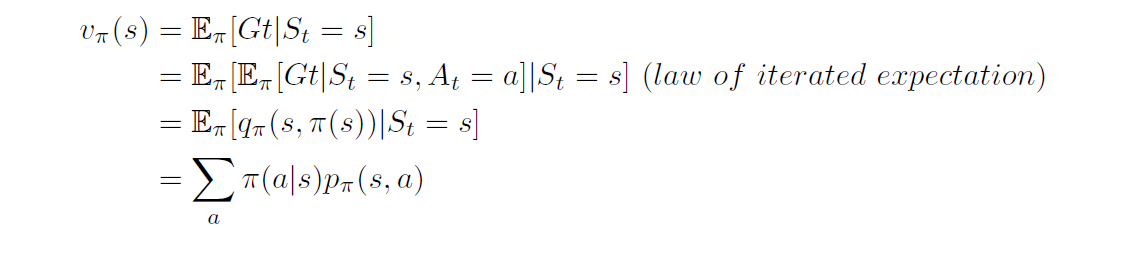
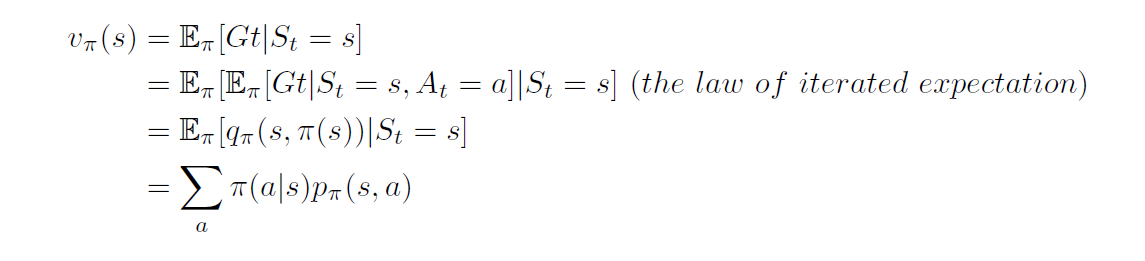
start chapter4 exercise

Changed region(s): [[0.1223, 0.2452, 0.9476, 0.3985], [0.1223, 0.3985, 0.4279, 0.8889], [0.0611, 0.0613, 0.3362, 0.2146]]

diff --git a/solutions/formulas/formulas-chapter4.tex b/solutions/formulas/formulas-chapter4.tex
@@ -1,0 +1,208 @@
+% Formulas for your convinence
+
+\documentclass{article}
+\usepackage{latexsym,bm,amsmath,amssymb}
+\begin{document}
+
+%%%%%%%%%%%%%%%%%%%%%%%%%%%%%%%%%%%%%%%%%%%%%%%%%%%
+% Chapter 2
+%%%%%%%%%%%%%%%%%%%%%%%%%%%%%%%%%%%%%%%%%%%%%%%%%%%
+% Exercise 2.1
+\[
+  \begin{aligned}
+    p_{Greedy} = (1 - \varepsilon) + \varepsilon * 1/2 = 0.75
+  \end{aligned}
+\]
+
+% Exercise 2.3
+\[
+  \begin{aligned}
+    \lim\limits_{step\to+\infty} (p_{\varepsilon=0.1}^{best \ action}) &= 1 - \varepsilon + 1/10 * \varepsilon = 0.91 \\
+    \lim\limits_{step\to+\infty} (p_{\varepsilon=0.01}^{best \ action}) &= 1 - \varepsilon + 1/10 * \varepsilon = 0.991
+  \end{aligned}
+\]
+
+% Exercise 2.5
+\[
+  \begin{aligned}
+    Q_{n+1} &= Q_{n} + \alpha_n (R_n - Q_n) = (1 - \alpha_n(a))Q_n + \alpha_n(a)R_n \\
+            &= (1 - \alpha_n(a))((1 - \alpha_{n-1}(a))Q_{n-1} + \alpha_{n-1}(a)R_{n-1}) + \alpha_n(a)R_n\\
+            & \quad \vdots\\
+            &= (1 - \alpha_n(a))\cdots(1-\alpha_1(a))Q_1 + \\
+            & \qquad \qquad (1 - \alpha_n(a))\cdots(1-\alpha_2(a))\alpha_1(a)R_1 + \\
+            & \qquad \qquad \ddots\\
+            & \qquad \qquad (1 - \alpha_n(a))\alpha_{n-1}(a)R_{n-1} + \alpha_n(a)R_n \\
+            &= Q_1\prod^n_{i=1}(1 - \alpha_i(a)) + \sum^n_{i=1} (\alpha_iR_i \prod^n_{j=i+1}(1-\alpha_j))
+  \end{aligned}
+\]
+
+%%%%%%%%%%%%%%%%%%%%%%%%%%%%%%%%%%%%%%%%%%%%%%%%%%%
+% Chapter 3
+%%%%%%%%%%%%%%%%%%%%%%%%%%%%%%%%%%%%%%%%%%%%%%%%%%%
+% Exercise 3.4
+\[
+  \begin{aligned}
+  r_{t+1} = \mathbb{E}[R_{t+1} | S_t = s] = \sum_{a\in \mathcal{A}(s)}\pi(a|s) \sum_{r\in\mathcal{R}} r \sum_{s'\in\mathcal{S}}p(s',r|s,a)\\
+  \end{aligned}
+\]
+
+% Exercise 3.6
+\[
+  \begin{aligned}
+  \sum_{s' \in \mathcal{S^+},r \in \mathcal{R}} p(s',r|s,a) = 1, \ for \ all \ s \in \mathcal{S^+}, \ a \in A(s)
+  \end{aligned}
+\]
+
+% Exercise 3.11
+\[
+  \begin{aligned}
+  &Given \ G_t = \sum_{k=0}^{\infty} \gamma^k, \ then \ \gamma G_t = \sum_{k=1}^{\infty} \gamma^k\\
+  &G_t - \gamma G_t = \sum_{k=0}^{\infty} \gamma^k - \sum_{k=1}^{\infty} \gamma^k = \gamma^0 = 1\\
+  &G_t = \frac {1} {(1 - \gamma)}
+  \end{aligned}
+\]
+
+% Exercise 3.13
+\[
+  \begin{aligned}
+    q_{\pi}(s,a) &= \mathbb{E}[G_t| S_{t}=s, A_{t}=a]\\
+    &= \mathbb{E}[\sum_{k=0}^{\infty}\gamma^kR_{t+k+1} | S_{t}=s, A_{t}=a]\\
+    &= \mathbb{E}[R_{t+1} + \gamma \sum_{k=0}^{\infty}\gamma^kR_{t+k+2} | S_{t}=s, A_{t}=a]\\
+    &= \mathbb{E}[R_{t+1} + \gamma G_{t+1} | S_{t}=s, A_{t}=a]\\
+    &= \sum_{s',r}p(s',r|s,a)[r + \gamma \mathbb{E}[ G_{t+1} | S_{t+1}=s']]\\
+    &= \sum_{s',r}p(s',r|s,a)[r + \gamma v_\pi(s')]\\
+    &= \sum_{s',r}p(s',r|s,a)[r + \gamma (\sum_{a'}\pi(a'|s') q_{\pi}(s',a'))]
+  \end{aligned}
+\]
+
+% Exercise 3.14
+\[
+  \begin{aligned}
+    Given \ G_t = &\sum_{k=0}^{\infty}\gamma^kR_{t+k+1}, and, \ G_t^c = \sum_{k=0}^{\infty}\gamma^k(R_{t+k+1} + c)\\
+    Then \ \ v_{\pi}^c(s) &= \mathbb{E}[G_t^c | S_{t}=s]\\
+    &= \mathbb{E}[\sum_{k=0}^{\infty}\gamma^k(R_{t+k+1} + c) | S_{t}=s]\\
+    &= \mathbb{E}[\sum_{k=0}^{\infty}\gamma^k(R_{t+k+1} + \sum_{k=0}^{\infty}\gamma^kc) | S_{t}=s]\\
+    &= v_{\pi}(s) + \sum_{k=0}^{\infty}\gamma^kc\\
+    &= v_{\pi}(s) + \frac {c} {1-\gamma}
+  \end{aligned}
+\]
+
+% Exercise 3.15
+\[
+  \begin{aligned}
+    Given \ G_t = &\sum_{k=0}^{T}\gamma^kR_{t+k+1}, and, \ G_t^c = \sum_{k=0}^{T}\gamma^k(R_{t+k+1} + c)\\
+    Then \ \ v_{\pi}^c(s) &= \mathbb{E}[G_t^c | S_{t}=s]\\
+    &= \mathbb{E}[\sum_{k=0}^{T}\gamma^k(R_{t+k+1} + c) | S_{t}=s]\\
+    &= \mathbb{E}[\sum_{k=0}^{T}\gamma^k(R_{t+k+1} + \sum_{k=0}^{T}\gamma^kc) | S_{t}=s]\\
+    &= v_{\pi}(s) + \sum_{k=0}^{T}\gamma^kc\\
+    &= v_{\pi}(s) + c\frac {1 - \gamma^{T+1}} {1-\gamma}\\
+    c\frac {1 - \gamma^{T+1}} {1-\gamma}, &\text{ increase earlier traversed states with higher values }
+  \end{aligned}
+\]
+
+% Exercise 3.16
+\[
+  \begin{aligned}
+    v_{\pi}(s) &= \mathbb{E}_{\pi} [Gt | S_t = s]\\
+    &= \mathbb{E}_{\pi} [ \mathbb{E}_{\pi}[ Gt | S_t=s, A_t = a] | S_t=s] \text{ (the law of iterated expectation)} \\
+    &= \mathbb{E}_{\pi} [ q_{\pi}(s, \pi(s)) | S_{t}=s]\\
+    &= \sum_{a}\pi(a|s) p_{\pi}(s, a)
+  \end{aligned}
+\]
+
+% Exercise 3.17
+\[
+  \begin{aligned}
+    q_{\pi}(s) &= \mathbb{E}[ Gt | S_t=s, A_t = a]\\
+    &= \mathbb{E}_{\pi} [ R_{t=1} + \gamma G_{t+1} | S_t=s, A_t = a] \\
+    &= \mathbb{E}_{\pi} [ R_{t=1} | S_t=s, A_t = a] + \mathbb{E}_{\pi} [ \gamma G_{t+1} | S_t=s, A_t = a] \\
+    &= \mathbb{E}_{\pi} [ R_{t=1} | S_t=s, A_t = a] + \mathbb{E}_{\pi} [ \mathbb{E}_{\pi} [\gamma G_{t+1} | S_t=s, A_t = a, S_{t+1} = s'] | S_t=s, A_t = a] \\
+    &= \mathbb{E}_{\pi} [ R_{t=1} | S_t=s, A_t = a] + \mathbb{E}_{\pi} [\gamma v_{\pi}(S_{t+1}) | S_t=s, A_t = a] \\
+    &= \sum_{s', r} p(s',r|s,a) [r + \gamma v(s')]
+  \end{aligned}
+\]
+
+%  Exercise 3.22
+\[
+  \begin{aligned}
+    \gamma &= 0, \ v_{\pi_{Left}}^{top} = 1 + 0 * v^{left} = 1, \ \ v_{\pi_{Right}}^{top} = 0 + 0 * v^{right} = 0; \\
+    \gamma &= 0.9, \ v_{\pi_{Left}}^{top} = 1 + 0.9 * v^{left} = 1, \ \ v_{\pi_{Right}}^{top} = 0 + 0.9 * v^{right} = 1.8; \\
+    \gamma &= 0.5, \ v_{\pi_{Left}}^{top} = 1 + 0.5 * v^{left} = 1, \ \ v_{\pi_{Right}}^{top} = 0 + 0.5 * v^{right} = 1;
+  \end{aligned}
+\]
+
+%  Exercise 3.23, 24, 25, 26
+\[
+  \begin{aligned}
+    &v_*(s) &&= \max_a (q_*(s, a)) \ \ &exercise3.23 \\
+    &q_*(s,a) &&= \sum_{s',r} p(s',r|s,a)[r + \gamma v_*(s')] \ \ &exercise3.24 \\
+    &\pi_*(s) &&= \arg\max_a (q_*(s, a))  \ \ &exercise3.25 \\
+    &\pi_*(s) &&= \arg\max_a (\sum_{s',r} p(s',r|s,a)[r + \gamma v_*(s')])  \ \ &exercise3.26
+  \end{aligned}
+\]
+
+
+%%%%%%%%%%%%%%%%%%%%%%%%%%%%%%%%%%%%%%%%%%%%%%%%%%%%%%%%%%%%%%%%%%%%%%%%%%%%%%%%%%%%%%%%%
+%%%% Chapter 4
+
+%  Exercise 4.1
+\[
+  \begin{aligned}
+    For \ q_{\pi}(s,a) &= \mathbb{E}[R_{t+1} + \gamma v_{\pi}(S_{t+1}) | S_{t}=s, A_{t}=a]\\
+    &= \sum_{s',r}p(s',r|s,a)[r + \gamma v_{\pi}(S_{t+1})]\\
+    \\
+    So \ q_{\pi}(11,down) &= \sum_{s',r}p(s',r|11,down)[r + \gamma v_{\pi}(s')], \ (s'=termination, r=-1, \gamma = 1) \\
+    &= r + 1*v_{\pi}(S_{t+1}) = -1 + 0 = -1 \\
+    \\
+    q_{\pi}(7,down) &= \sum_{s',r}p(s',r|7,down)[r + \gamma v_{\pi}(s')], \  for \  s'=11, r=-1, \gamma = 1\\
+    &= r + 1*v_{\pi}(11) \\
+    &= -1 + 0.25q_{\pi}(11,up) + 0.25q_{\pi}(11,left) + 0.25q_{\pi}(11,right) + 0.25q_{\pi}(11,down)\\
+    &\text{after enough runs, those values will converge}
+  \end{aligned}
+\]
+
+% Exercise 4.3
+\[
+  \begin{aligned}
+    q_{\pi}(s,a) &= \mathbb{E}_{\pi}[ Gt | S_{t}=s, A_{t}=a]\\
+    &= \mathbb{E}_{\pi}[R_{t+1} + \gamma v_{\pi}(S_{t+1}) | S_{t}=s, A_{t}=a]\\
+    &= \sum_{s',r}p(s',r|s,a)[r + \gamma v_{\pi}(s')]\\
+    &= \sum_{s',r}p(s',r|s,a)[r + \gamma \sum_{a'}\pi(a'|s')q_{\pi}(s',a')]\\
+    \\So \ \ &
+    q_{k+1}(s, a) &= \mathbb{E}_{\pi}[R_{t+1} + \gamma v_{k}(S_{t+1}) | S_{t}=s, A_{t}=a]\\
+    &= \sum_{s',r}p(s',r|s,a)[r + \gamma \sum_{a'}\pi(a'|s')q_{k}(s',a')]
+  \end{aligned}
+\]
+
+% Exercise 4.6
+\[
+  \begin{aligned}
+    1. \ & Initialization\\
+    & q(s, a) \in \mathbb{R}, \\
+    2. \ & Policy \ Evaluation\\
+    3. \ & Policy \ Improvement\\
+    policy-stable <-
+  \end{aligned}
+\]
+
+
+
+% Bellman Equation & Bellman Optimality Equation: value function & action-value function
+\[
+  \begin{aligned}
+  v_{\pi}(s) &= \mathbb{E}[R_{t+1} + \gamma v_{\pi}(S_{t+1}) | S_{t}=s] \\
+  &= \sum_{a}\pi(a|s) \sum_{s',r}p(s',r|s,a)[r + \gamma v_{\pi}(s')]\\
+  \\
+  v_{*}(s) &= \max_{a}\mathbb{E}[R_{t+1} + \gamma v_{*}(S_{t+1}) | S_{t}=s, A_{t}=a]\\
+  &= \max_{a}\sum_{s',r}p(s',r|s,a)[r + \gamma v_{*}(s')]\\
+  \\
+  q_{\pi}(s,a) &= \mathbb{E}[R_{t+1} + \gamma v_{\pi}(S_{t+1}) | S_{t}=s, A_{t}=a]\\
+  &= \sum_{s',r}p(s',r|s,a)[r + \gamma v_{\pi}(s')]\\
+  &= \sum_{s',r}p(s',r|s,a)[r + \gamma (\sum_{a'}\pi(a'|s') q_{\pi}(s',a')])]\\
+  \\
+  q_{*}(s,a) &= \mathbb{E}[R_{t+1} + \gamma \max_{a'}q_{*}(S_{t+1}, a') | S_{t}=s, A_{t}=a]\\
+  &= \sum_{s',r}p(s',r|s,a)[r + \gamma \max_{a'}q_{*}(s', a')]
+  \end{aligned}
+\]
+
+\end{document}

diff --git a/solutions/formulas/formulas-chapter2-3.tex b/solutions/formulas/formulas-chapter2-3.tex
@@ -96,7 +96,7 @@
     &= \mathbb{E}[\sum_{k=0}^{T}\gamma^k(R_{t+k+1} + \sum_{k=0}^{T}\gamma^kc) | S_{t}=s]\\
     &= v_{\pi}(s) + \sum_{k=0}^{T}\gamma^kc\\
     &= v_{\pi}(s) + c\frac {1 - \gamma^{T+1}} {1-\gamma}\\
-    c\frac {1 - \gamma^{T+1}} {1-\gamma}, &\ increase \ earlier \ appeared \ states \ with \ higher \ values.
+    c\frac {1 - \gamma^{T+1}} {1-\gamma}, &\text{ increase earlier traversed states with higher values }
   \end{aligned}
 \]
 
@@ -104,7 +104,7 @@
 \[
   \begin{aligned}
     v_{\pi}(s) &= \mathbb{E}_{\pi} [Gt | S_t = s]\\
-    &= \mathbb{E}_{\pi} [ \mathbb{E}_{\pi}[ Gt | S_t=s, A_t = a] | S_t=s] \ (law \ of \ iterated \ expectation) \\
+    &= \mathbb{E}_{\pi} [ \mathbb{E}_{\pi}[ Gt | S_t=s, A_t = a] | S_t=s] \text{ (the law of iterated expectation)} \\
     &= \mathbb{E}_{\pi} [ q_{\pi}(s, \pi(s)) | S_{t}=s]\\
     &= \sum_{a}\pi(a|s) p_{\pi}(s, a)
   \end{aligned}
@@ -114,10 +114,10 @@
 \[
   \begin{aligned}
     q_{\pi}(s) &= \mathbb{E}[ Gt | S_t=s, A_t = a]\\
-    &= \mathbb{E} [ R_{t=1} + \gamma G_{t+1} | S_t=s, A_t = a] \\
-    &= \mathbb{E} [ R_{t=1} | S_t=s, A_t = a] + \mathbb{E} [ \gamma G_{t+1} | S_t=s, A_t = a] \\
-    &= \mathbb{E} [ R_{t=1} | S_t=s, A_t = a] + \mathbb{E} [ \mathbb{E} [\gamma G_{t+1} | S_t=s, A_t = a, S_{t+1} = s'] | S_t=s, A_t = a] \\
-    &= \mathbb{E} [ R_{t=1} | S_t=s, A_t = a] + \mathbb{E} [\gamma v(S_{t+1}) | S_t=s, A_t = a] \\
+    &= \mathbb{E}_{\pi} [ R_{t=1} + \gamma G_{t+1} | S_t=s, A_t = a] \\
+    &= \mathbb{E}_{\pi} [ R_{t=1} | S_t=s, A_t = a] + \mathbb{E}_{\pi} [ \gamma G_{t+1} | S_t=s, A_t = a] \\
+    &= \mathbb{E}_{\pi} [ R_{t=1} | S_t=s, A_t = a] + \mathbb{E}_{\pi} [ \mathbb{E}_{\pi} [\gamma G_{t+1} | S_t=s, A_t = a, S_{t+1} = s'] | S_t=s, A_t = a] \\
+    &= \mathbb{E}_{\pi} [ R_{t=1} | S_t=s, A_t = a] + \mathbb{E}_{\pi} [\gamma v_{\pi}(S_{t+1}) | S_t=s, A_t = a] \\
     &= \sum_{s', r} p(s',r|s,a) [r + \gamma v(s')]
   \end{aligned}
 \]
@@ -142,6 +142,51 @@
 \]
 
 
+%%%%%%%%%%%%%%%%%%%%%%%%%%%%%%%%%%%%%%%%%%%%%%%%%%%%%%%%%%%%%%%%%%%%%%%%%%%%%%%%%%%%%%%%%
+%%%% Chapter 4
+
+%  Exercise 4.1
+\[
+  \begin{aligned}
+    For \ q_{\pi}(s,a) &= \mathbb{E}[R_{t+1} + \gamma v_{\pi}(S_{t+1}) | S_{t}=s, A_{t}=a]\\
+    &= \sum_{s',r}p(s',r|s,a)[r + \gamma v_{\pi}(S_{t+1})]\\
+    \\
+    So \ q_{\pi}(11,down) &= \sum_{s',r}p(s',r|11,down)[r + \gamma v_{\pi}(s')], \ (s'=termination, r=-1, \gamma = 1) \\
+    &= r + 1*v_{\pi}(S_{t+1}) = -1 + 0 = -1 \\
+    \\
+    q_{\pi}(7,down) &= \sum_{s',r}p(s',r|7,down)[r + \gamma v_{\pi}(s')], \  for \  s'=11, r=-1, \gamma = 1\\
+    &= r + 1*v_{\pi}(11) \\
+    &= -1 + 0.25q_{\pi}(11,up) + 0.25q_{\pi}(11,left) + 0.25q_{\pi}(11,right) + 0.25q_{\pi}(11,down)\\
+    &\text{after enough runs, those values will converge}
+  \end{aligned}
+\]
+
+% Exercise 4.3
+\[
+  \begin{aligned}
+    q_{\pi}(s,a) &= \mathbb{E}_{\pi}[ Gt | S_{t}=s, A_{t}=a]\\
+    &= \mathbb{E}_{\pi}[R_{t+1} + \gamma v_{\pi}(S_{t+1}) | S_{t}=s, A_{t}=a]\\
+    &= \sum_{s',r}p(s',r|s,a)[r + \gamma v_{\pi}(s')]\\
+    &= \sum_{s',r}p(s',r|s,a)[r + \gamma \sum_{a'}\pi(a'|s')q_{\pi}(s',a')]\\
+    \\So \ \ &
+    q_{k+1}(s, a) &= \mathbb{E}_{\pi}[R_{t+1} + \gamma v_{k}(S_{t+1}) | S_{t}=s, A_{t}=a]\\
+    &= \sum_{s',r}p(s',r|s,a)[r + \gamma \sum_{a'}\pi(a'|s')q_{k}(s',a')]
+  \end{aligned}
+\]
+
+% Exercise 4.6
+\[
+  \begin{aligned}
+    1. \ & Initialization\\
+    & q(s, a) \in \mathbb{R}, \\
+    2. \ & Policy \ Evaluation\\
+    3. \ & Policy \ Improvement\\
+    policy-stable <-
+  \end{aligned}
+\]
+
+
+
 % Bellman Equation & Bellman Optimality Equation: value function & action-value function
 \[
   \begin{aligned}
@@ -157,32 +202,6 @@
   \\
   q_{*}(s,a) &= \mathbb{E}[R_{t+1} + \gamma \max_{a'}q_{*}(S_{t+1}, a') | S_{t}=s, A_{t}=a]\\
   &= \sum_{s',r}p(s',r|s,a)[r + \gamma \max_{a'}q_{*}(s', a')]
-  \end{aligned}
-\]
-
-% Chapter 4 Exercise Math Equations
-% 4.1
-\[
-  \begin{aligned}
-    \because q_{\pi}(s,a) &= \mathbb{E}[R_{t+1} + \gamma v_{\pi}(S_{t+1}) | S_{t}=s, A_{t}=a]\\
-    &= \sum_{s',r}p(s',r|s,a)[r + \gamma v_{\pi}(S_{t+1})]\\
-    \\
-    \therefore q_{\pi}(11,down) &= \sum_{s',r}p(s',r|11,down)[r + \gamma v_{\pi}(s')], \  for \  s'=termination, r=-1, \gamma = 1\\
-    &= r + v_{\pi}(S_{t+1}) = -1 + 0 = -1 \\
-    \therefore q_{\pi}(7,down) &= \sum_{s',r}p(s',r|7,down)[r + \gamma v_{\pi}(s')], \  for \  s'=11, r=-1, \gamma = 1\\
-    &= r + v_{\pi}(11) \\
-    &= -1 + 0.25q_{\pi}(11,up) + 0.25q_{\pi}(11,left) + 0.25q_{\pi}(11,right) + 0.25q_{\pi}(11,down)\\
-  \end{aligned}
-\]
-
-% 4.3
-\[
-  \begin{aligned}
-    q_{\pi}(s,a) &= \mathbb{E}[R_{t+1} + \gamma v_{\pi}(S_{t+1}) | S_{t}=s, A_{t}=a]\\
-    &= \sum_{s',r}p(s',r|s,a)[r + \gamma v_{\pi}(s')]\\
-    &= \sum_{s',r}p(s',r|s,a)[r + \gamma \sum_{a'}\pi(a'|s')q_{\pi}(s',a')]\\
-    q_{k+1}(s, a) &= \mathbb{E}[R_{t+1} + \gamma v_{k}(S_{t+1}) | S_{t}=s, A_{t}=a]\\
-    &= \sum_{s',r}p(s',r|s,a)[r + \gamma \sum_{a'}\pi(a'|s')q_{k}(s',a')]
   \end{aligned}
 \]
 

diff --git a/solutions/chapter4/selected-solutions.md b/solutions/chapter4/selected-solutions.md
@@ -1,13 +1,28 @@
 ## Selected Reference Solution For Chapter 4
 
 `Exercise 4.1`
-![alt text](figures/4-1.png "Exercise 4.1")
+> ![alt text](figures/4-1.png "Exercise 4.1")
+
+`Exercise 4.2`
+> As long as the dynamics of original states unchanged, the new added state 15 won't affect their state values.    
+> The sate value of v(15) can be easily cacludated by Bellman equation.
+> When state 13 can transite to 15, all state values need be re-calculated by policy evaluation.
+
+`Exercise 4.3`
+> ![alt text](figures/4-3.png "Exercise 4.3")
+
+`Exercise 4.4`
+> ![alt text](figures/4-4.png "Exercise 4.4")
+
+`Exercise 4.6`
+> ![alt text](figures/4-6.png "Exercise 4.6")
+
 
 ---
 
 ## Experiments Results For Chapter 4
 
-### 1. Car Rental 
+### 1. Car Rental
 
 __Car Rental__
 ![alt text](figures/figure_4-2.png "Car Rental Using Policy Iteration")
